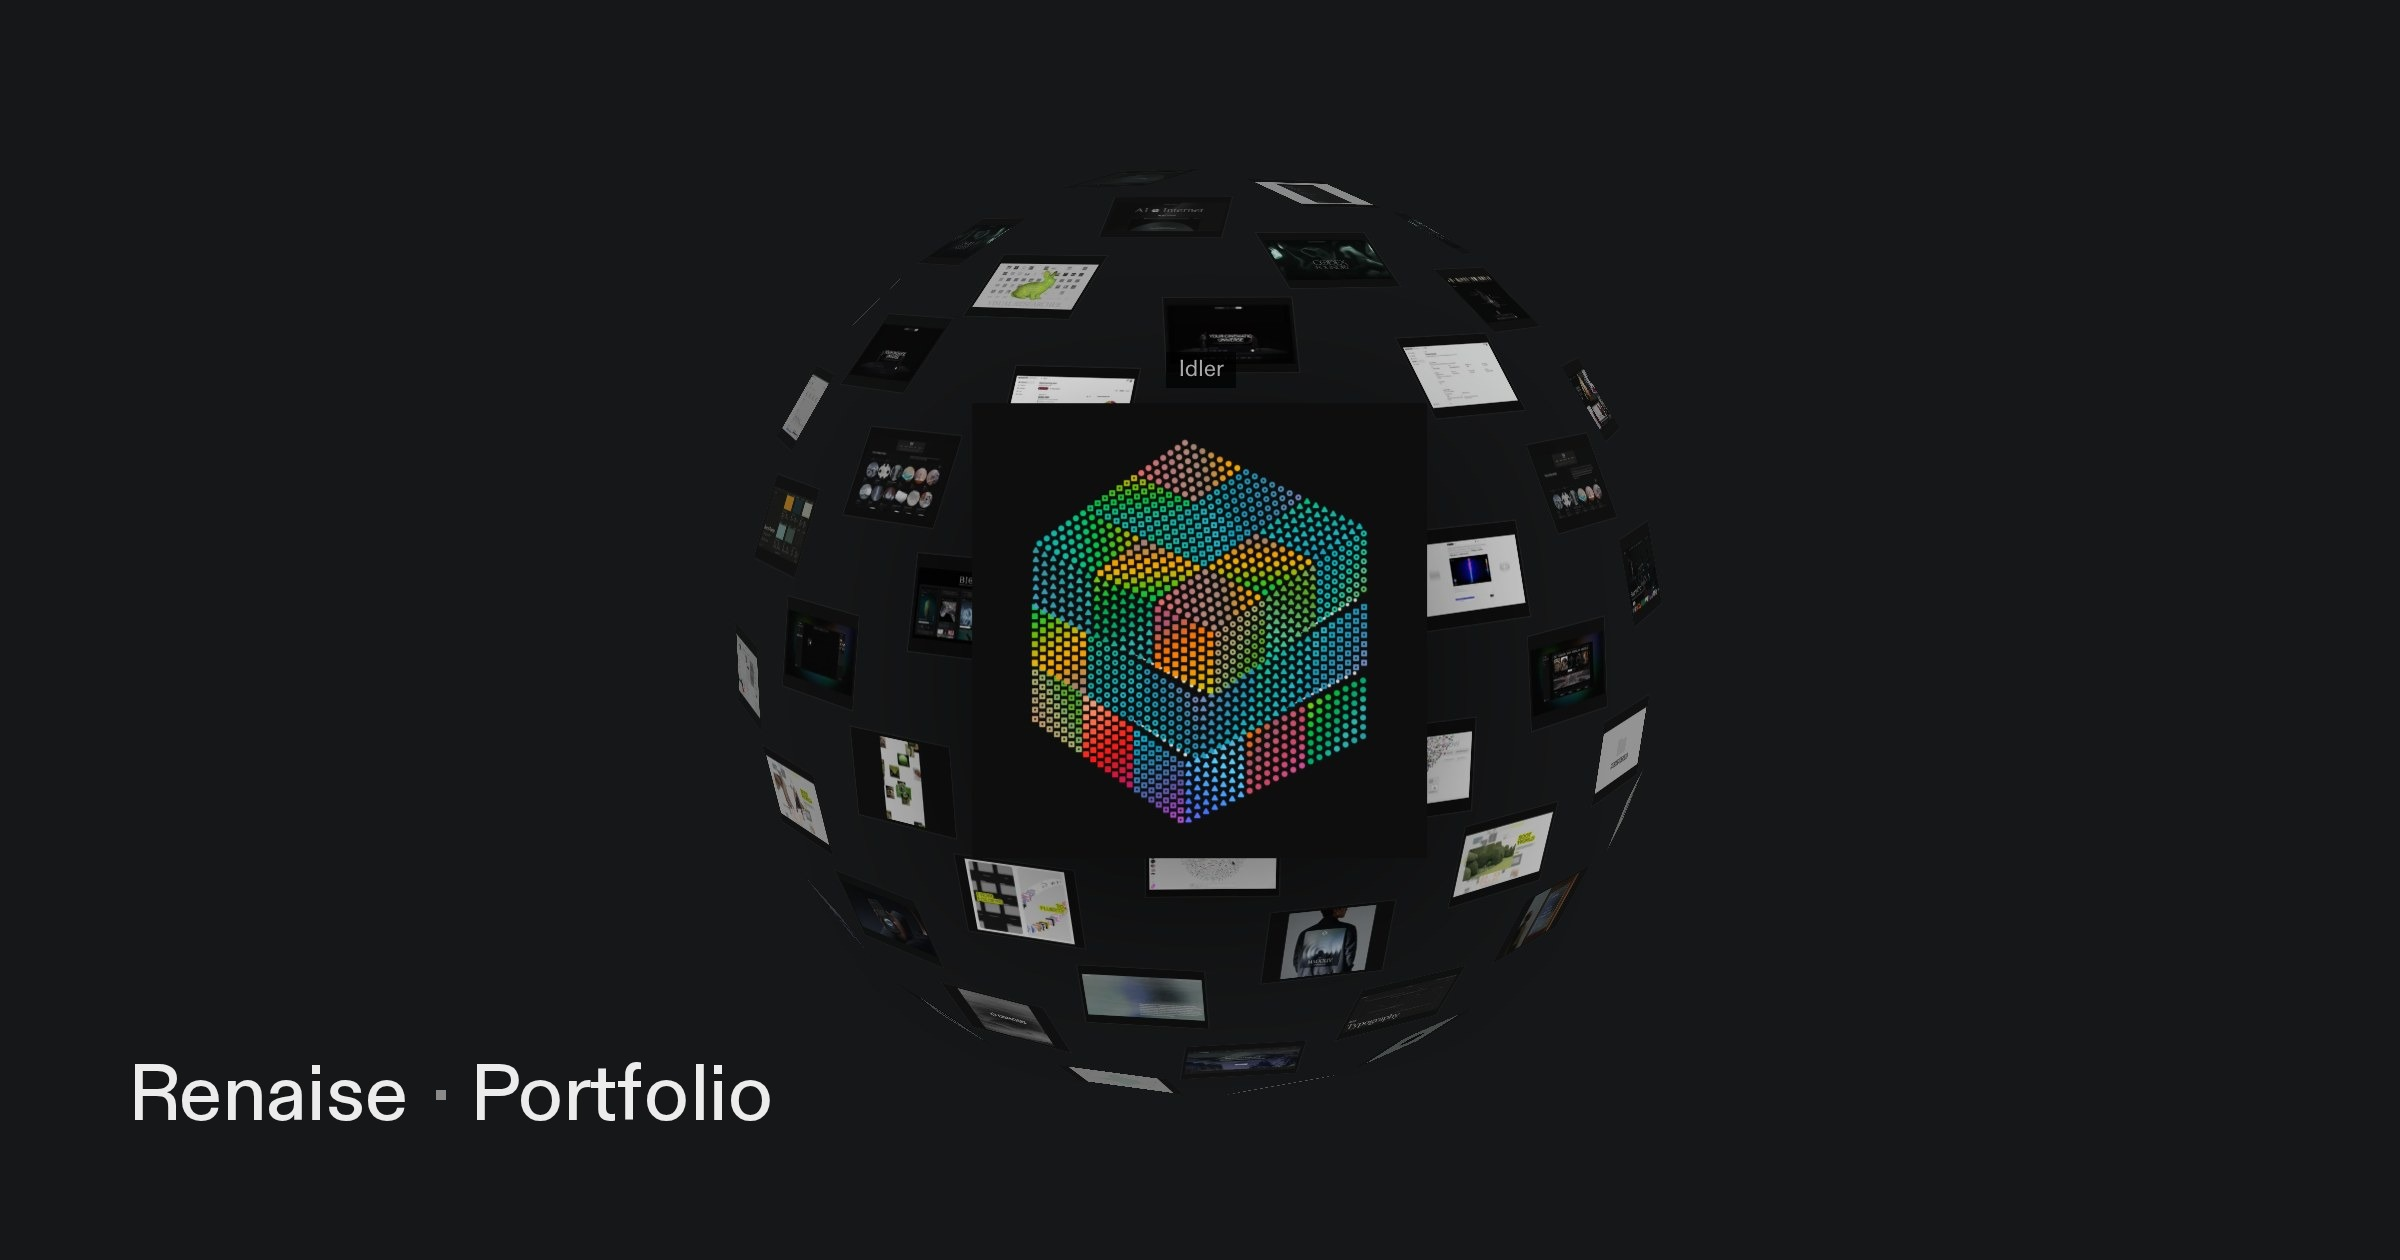
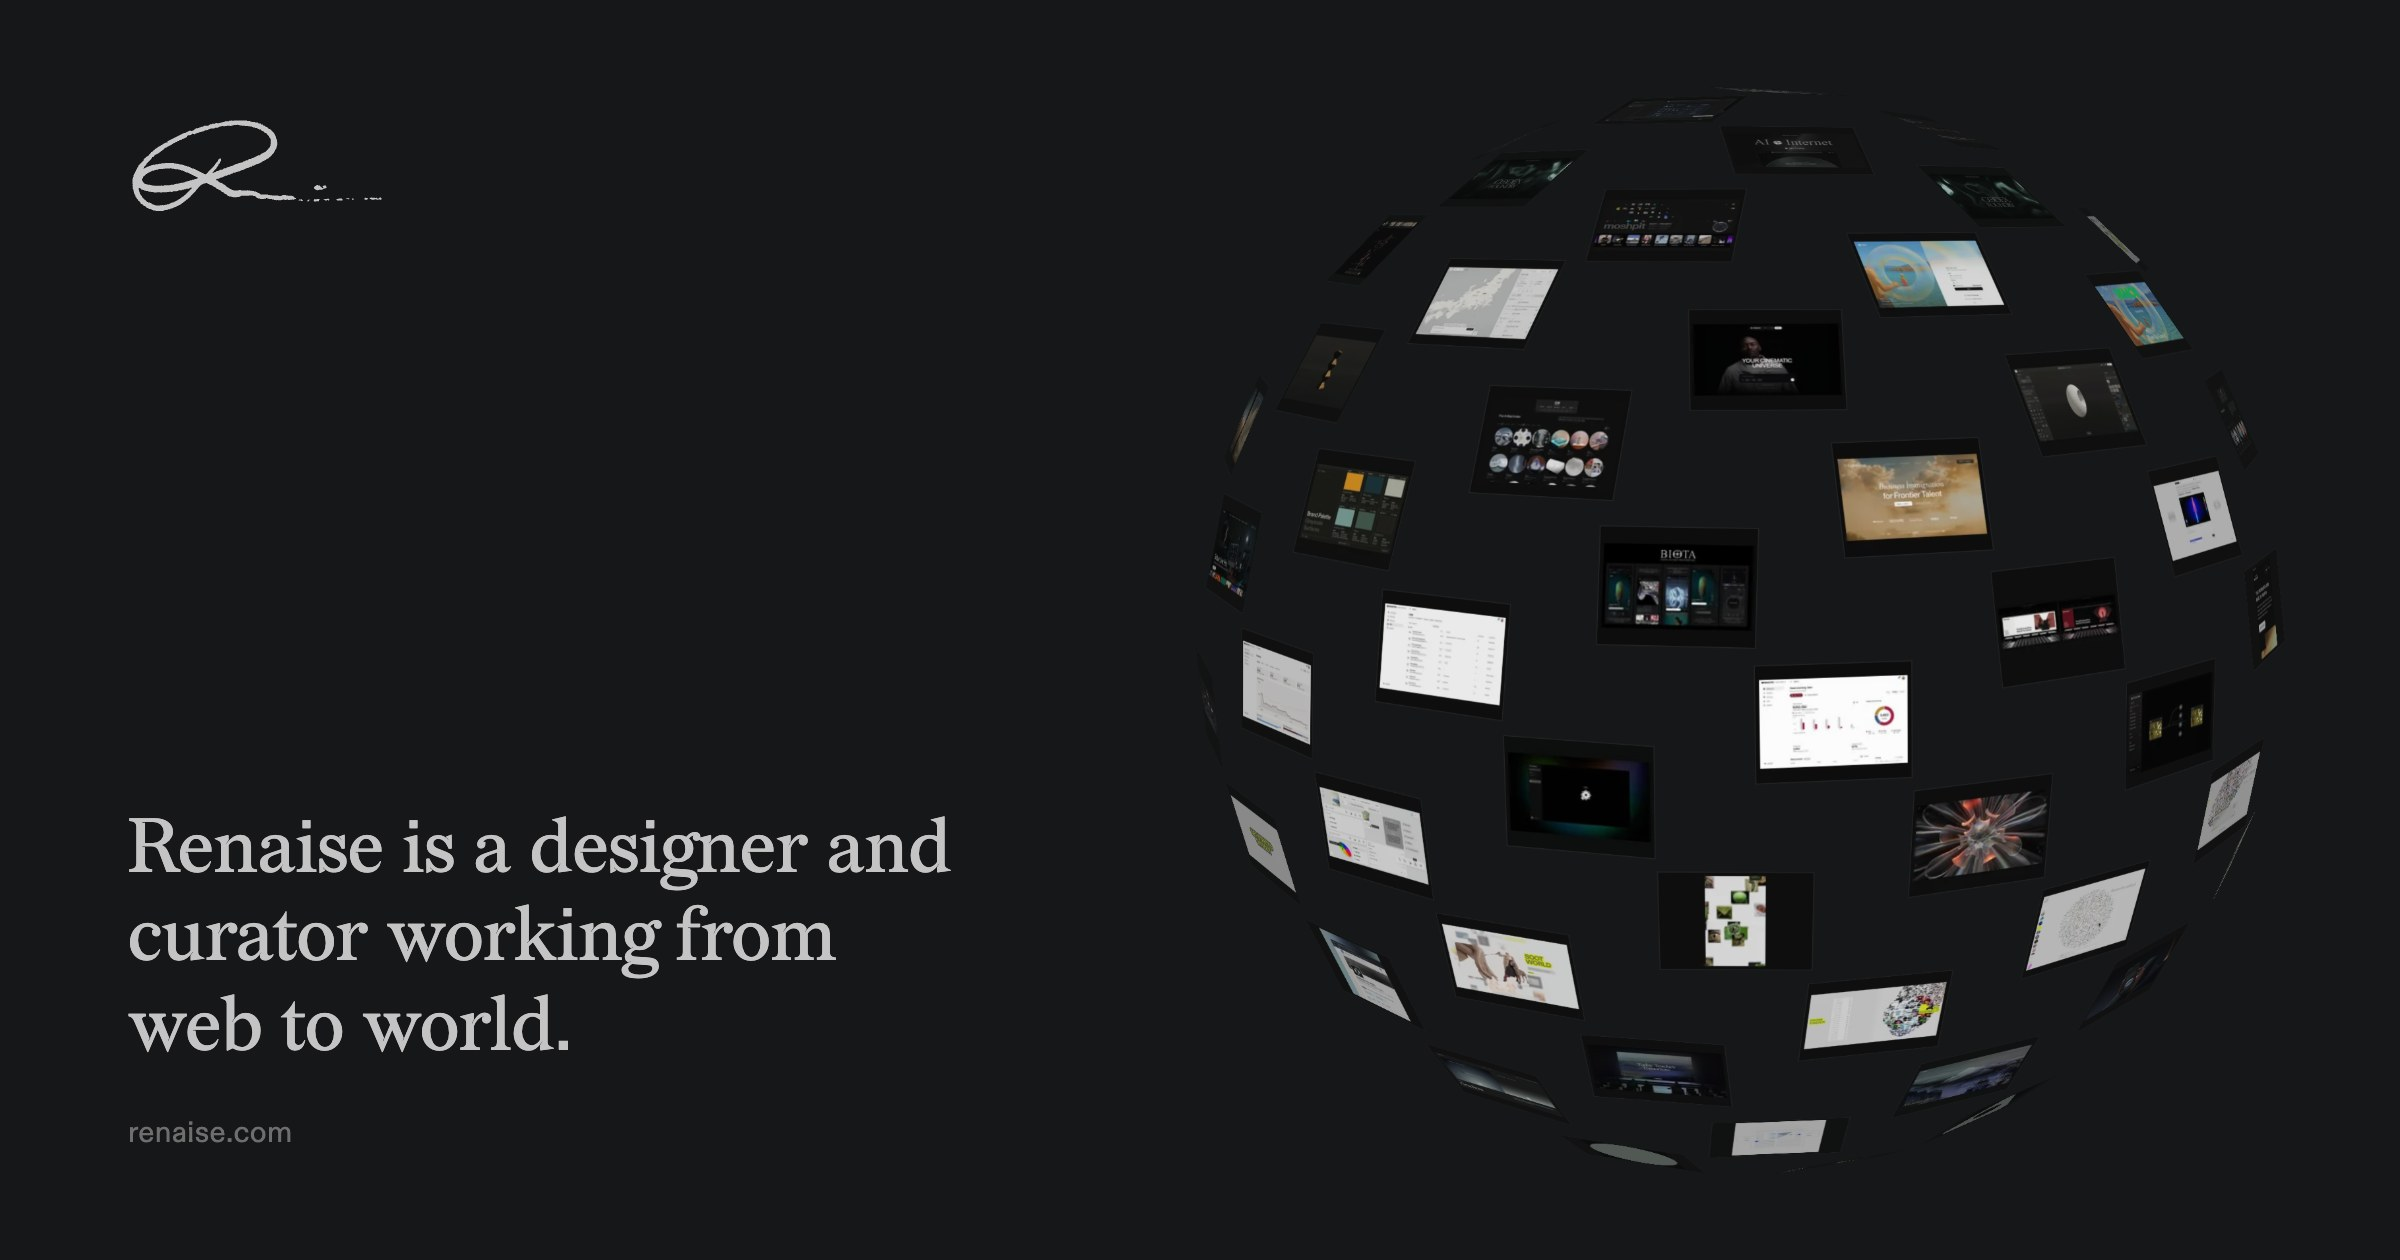
Social card: a sharp still from the live globe replaces the GIF; globe keeps full speed on hover

diff --git a/index.html b/index.html
@@ -17,17 +17,15 @@
 <meta property="og:url" content="https://renaise.com/" />
 <meta property="og:title" content="Renaise · Portfolio" />
 <meta property="og:description" content="Renaise Kim is a designer and curator working from web to world: identity, product and data visualization for new technology to new productions." />
-<meta property="og:image" content="https://renaise.com/assets/og.gif?v=2" />
-<meta property="og:image:type" content="image/gif" />
-<meta property="og:image:width" content="800" />
-<meta property="og:image:height" content="420" />
-<meta property="og:image" content="https://renaise.com/assets/og.jpg?v=6" />
+<meta property="og:image" content="https://renaise.com/assets/og.jpg?v=7" />
+<meta property="og:image:type" content="image/jpeg" />
+<meta property="og:image:alt" content="Renaise's signature beside a globe made of her project images." />
 <meta property="og:image:width" content="2400" />
 <meta property="og:image:height" content="1260" />
 <meta name="twitter:card" content="summary_large_image" />
 <meta name="twitter:title" content="Renaise · Portfolio" />
 <meta name="twitter:description" content="Renaise Kim is a designer and curator working from web to world: identity, product and data visualization for new technology to new productions." />
-<meta name="twitter:image" content="https://renaise.com/assets/og.gif?v=2" />
+<meta name="twitter:image" content="https://renaise.com/assets/og.jpg?v=7" />
 <script type="application/ld+json">
 {"@context":"https://schema.org","@type":"Person","name":"Renaise Kim","url":"https://renaise.com/",
  "jobTitle":"Designer","email":"mailto:krenaise@gmail.com",
@@ -3184,7 +3182,7 @@ window.__up2x=function(u){ var b=String(u).split('?')[0]; return (window.__UP2X&
     // stalled tab resumes without a lurch.
     function frame(now){
       var dt=last?Math.min(.05,(now-last)/1000):0; last=now;
-      raf=0; if(!drag) rotY+=(hover<0?spin:spin*.5)*dt;   // keeps turning, at half speed, behind an open tile
+      raf=0; if(!drag) rotY+=spin*dt;   // one speed always: it keeps turning on hover + behind an open tile (half speed read as stopped, 2026-11-24)
       orb.style.transform='rotateX('+rotX+'rad) rotateY('+rotY+'rad)';
       // facing: brightest where a tile looks straight at the camera, fading to the rim
       var cy=Math.cos(rotY), sy=Math.sin(rotY), cx=Math.cos(rotX), sx=Math.sin(rotX);
